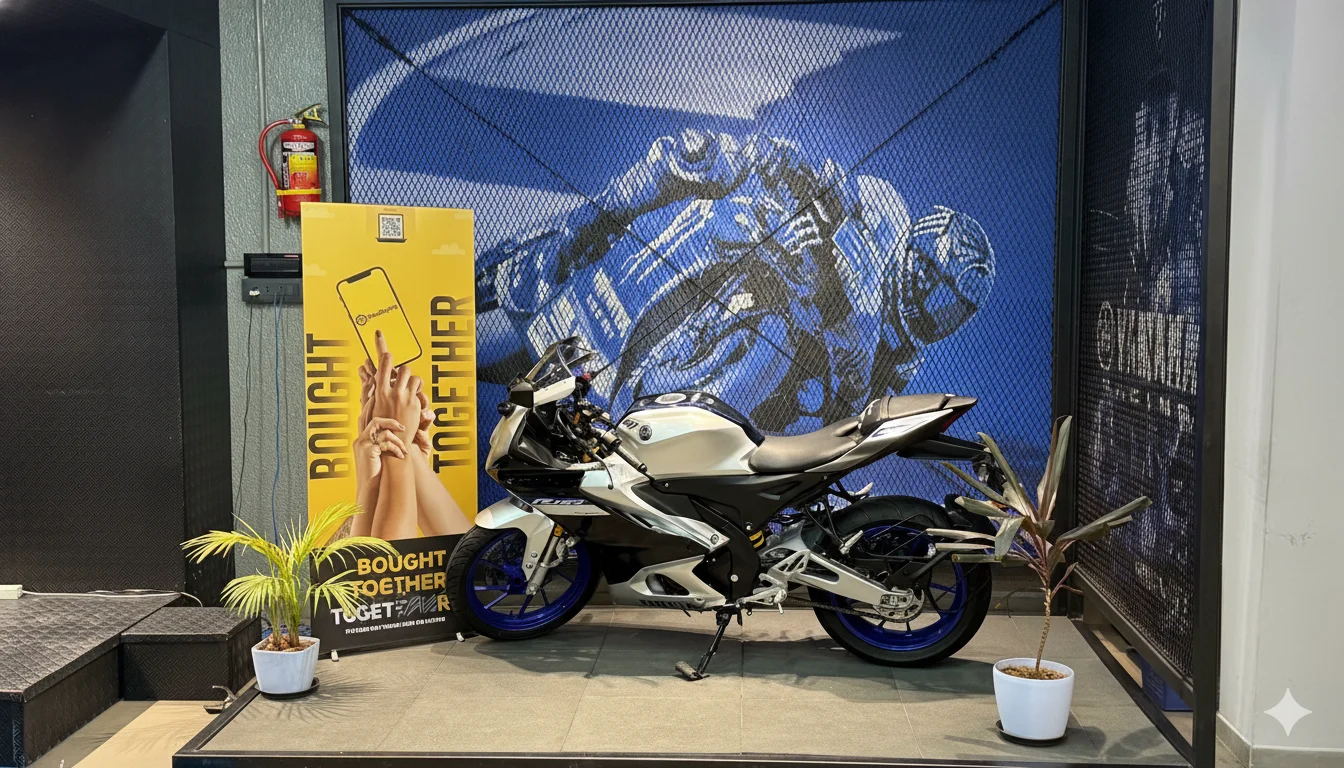
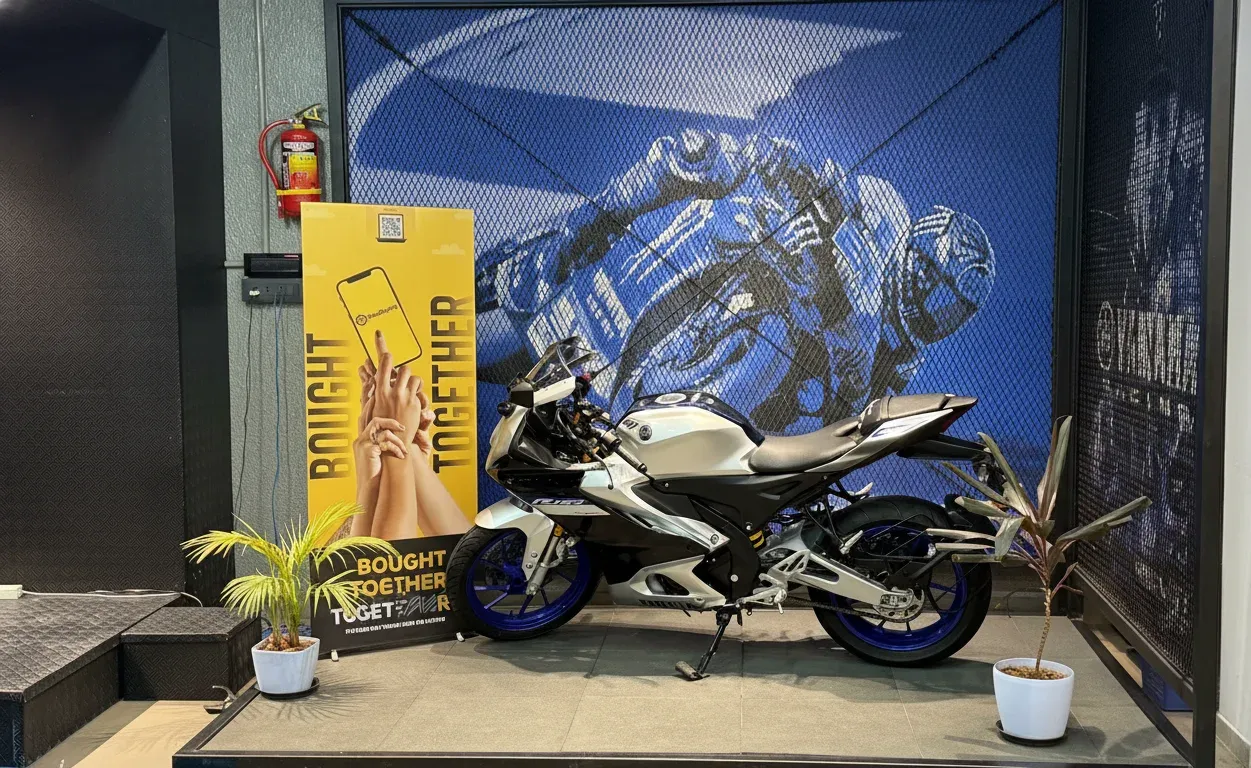
updated images

diff --git a/components/brand-gallery.tsx b/components/brand-gallery.tsx
@@ -8,13 +8,13 @@ import "react-photo-album/rows.css";
 const photos = [
   {
     src: "/gallery/Generated Image November 22, 2025 - 5_31PM.webp",
-    width: 1344,
+    width: 1251,
     height: 768,
     alt: "Brand collaboration 1",
   },
   {
     src: "/gallery/Generated Image November 22, 2025 - 5_35PM.webp",
-    width: 1344,
+    width: 1253,
     height: 768,
     alt: "Brand collaboration 2",
   },
